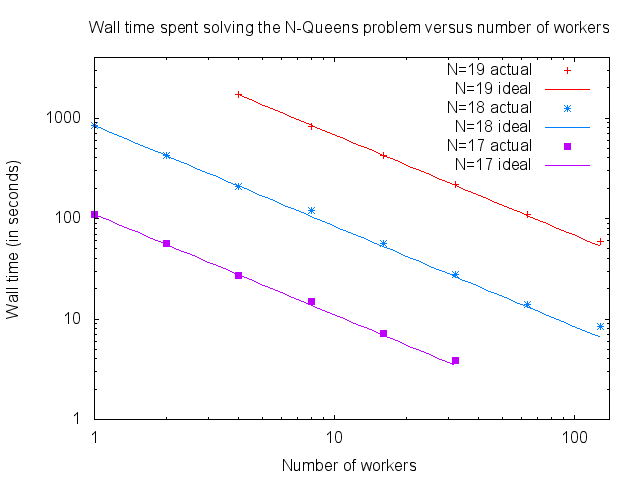
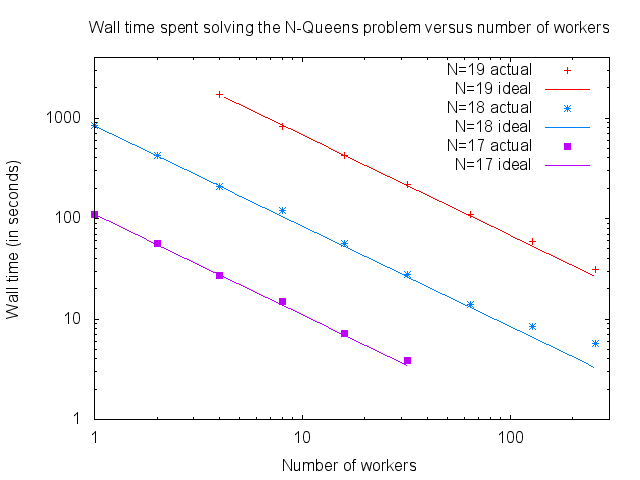
Added scaling data for 256 workers.

diff --git a/README.md b/README.md
@@ -32,7 +32,10 @@ N=19 on a local cluster:
 The above was obtained by running a job, which counts the number of solutions,
 three times for each number of workers and problem size, and then taking the
 shortest time of each set of three*; the maximum number of workers for this
-experiment (128) was limited by the size of the cluster.
+experiment (256) was limited by the size of the cluster.  From the above plot we
+see that scaling is generally good with the exception of the N=18 case for 128
+workers and above, which is not necessarily a big deal since the total running
+time is under 10 seconds.
 
 \* All of the data points for each value of N were usually within a small
 percentage of one another, save for (oddly) the *left*-most data point
